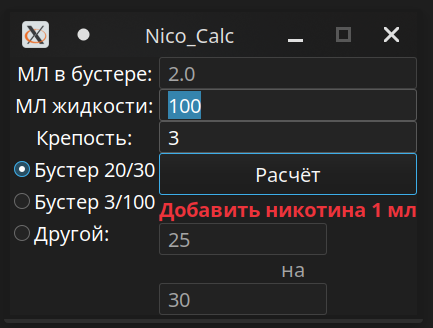
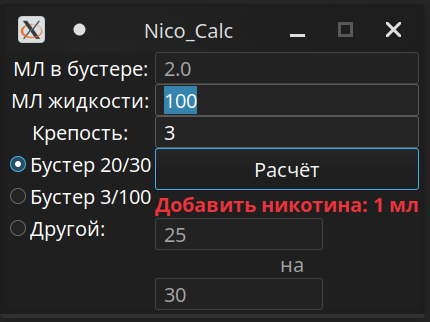
Исправлена опечатка

diff --git a/MainWindow.cs b/MainWindow.cs
@@ -50,7 +50,7 @@ namespace NicoCalk
 
             double res = ToDouble(text_V.Text) * (ToDouble(text_K.Text) / 100) * ToDouble(text_Nico.Text) / (Nico / 100);
             res = Math.Round(res, 3);
-            lable_Result.Text = $"Добавить никотина {res} мл";
+            lable_Result.Text = $"Добавить никотина: {res} мл";
         }
 
         private double ToDouble(string s)
